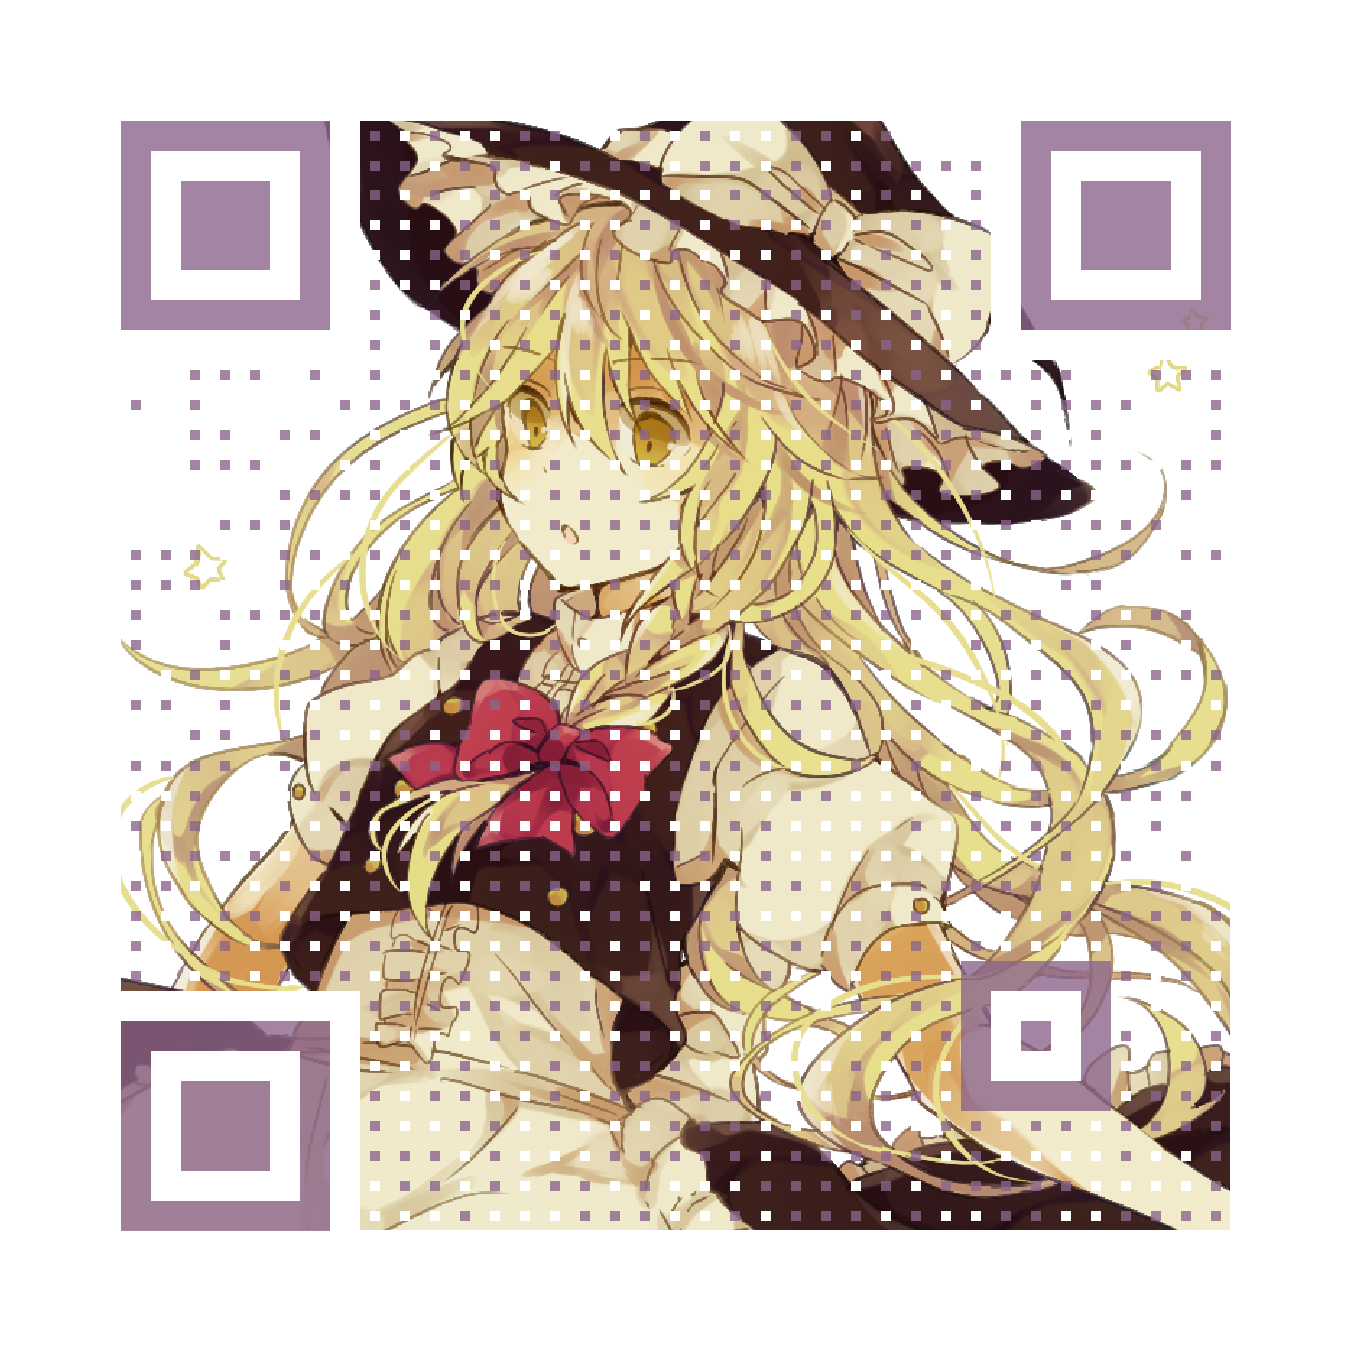
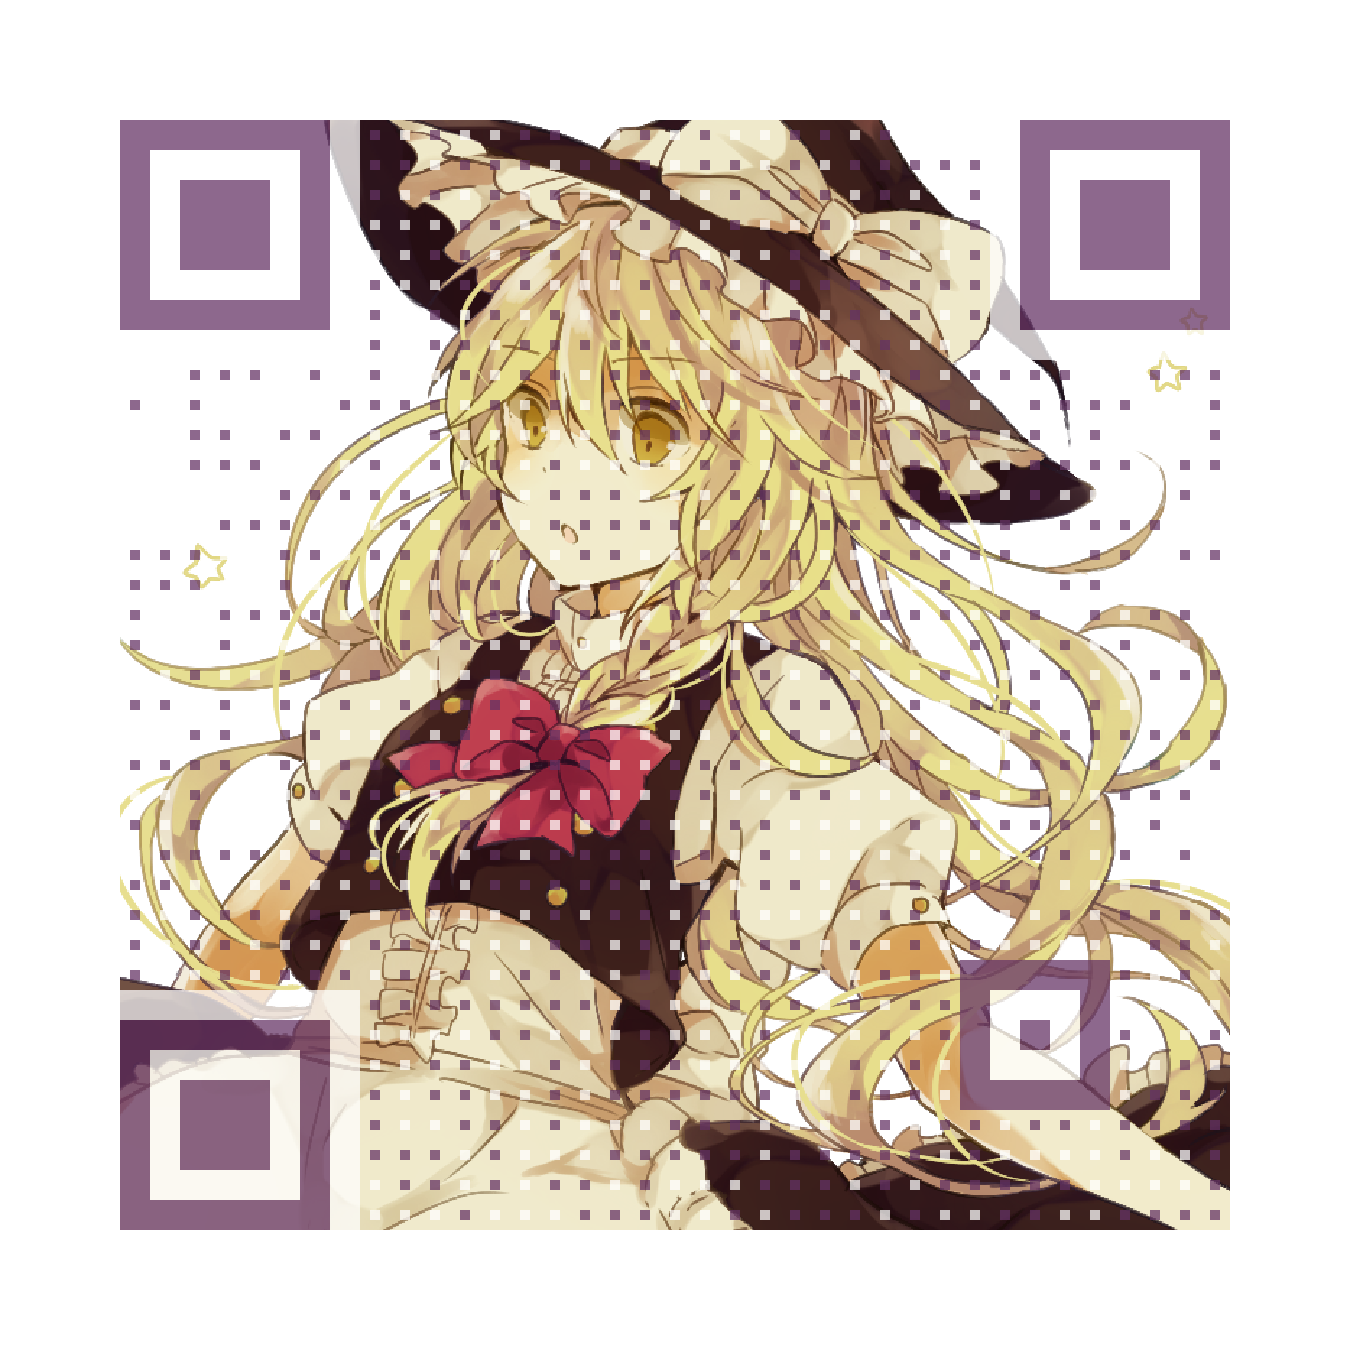
tweak

diff --git a/CuteR/CuteR.py b/CuteR/CuteR.py
@@ -21,6 +21,8 @@ def color_replace(image, color):
             r, g, b, a = pixels[width, height]
             if (r, g, b, a) == (0,0,0,255):
                 pixels[width,height] = color
+            else:
+                pixels[width,height] = (r,g,b,color[3])
 
 def produce(txt,img,ver=5,err_crt = qrcode.constants.ERROR_CORRECT_H,bri = 1.0, cont = 1.0,\
         colourful = False, rgba = (0,0,0,255),pixelate = False):
@@ -94,6 +96,7 @@ def produce(txt,img,ver=5,err_crt = qrcode.constants.ERROR_CORRECT_H,bri = 1.0, 
     img_res.paste(img_enh,(120,120),img_enh)
     img_frame = img_frame.resize((img_frame.size[0]*10,img_frame.size[1]*10))
     img_res.paste(img_frame,(0,0),img_frame)
+    img_res = img_res.convert('RGB')
     if pixelate:
         return img_res.resize(img_qr.size).resize((img_img_size,img_img_size))
     return img_res

diff --git a/setup.py b/setup.py
@@ -4,7 +4,7 @@
 from setuptools import setup, find_packages
 
 setup(name='CuteR',
-      version='1.1',
+      version='1.2',
       description='Custom QR Code with picture',
       author='Chinuno Usami',
       author_email='usami@chinuno.com',
